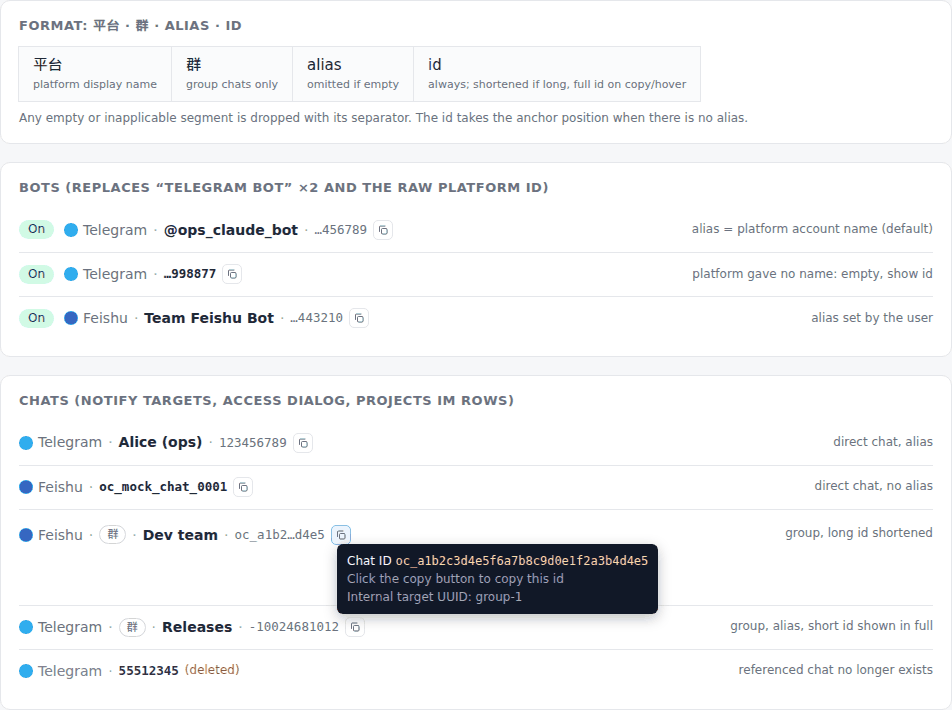
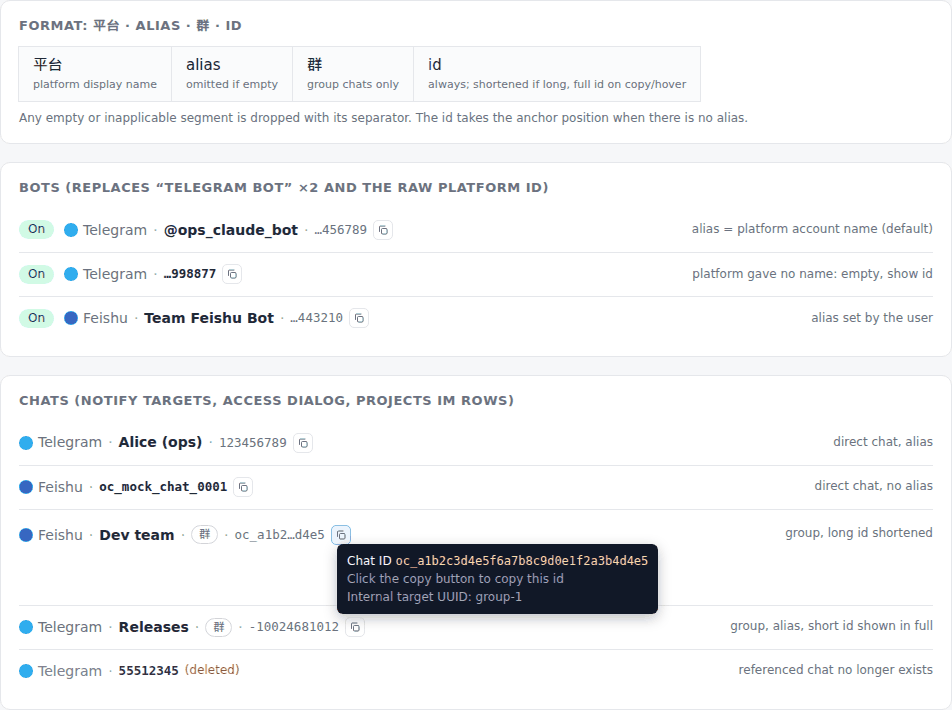
feat(frontend): put the group marker after the alias: platform · alias · group · id
The group chip read oddly between platform and alias; it now follows the name it
qualifies. Component, text helper, tests, mockup, screenshots and design doc updated.

Changed region(s): [[0.1218, 0.031, 0.4265, 0.1239], [0.0914, 0.7437, 0.2437, 0.7746], [0.1218, 0.8676, 0.2437, 0.8986]]

diff --git a/.design/images/bot-im-alias-display/mockup.html b/.design/images/bot-im-alias-display/mockup.html
@@ -1,6 +1,6 @@
 <!doctype html>
 <html lang="en"><head><meta charset="utf-8">
-<title>Bot/IM display mockup: 平台 · 群 · alias · id</title>
+<title>Bot/IM display mockup: 平台 · alias · 群 · id</title>
 <style>
   :root { --text:#1f2937; --muted:#6b7280; --faint:#9ca3af; --line:#e5e7eb; --primary:#2563eb; --chip:#eef2f7; --warn:#b45309; }
   * { box-sizing:border-box; }
@@ -59,11 +59,11 @@
 <!-- ============ SHOT A: format + lists ============ -->
 <div id="shotA">
   <div class="card">
-    <h2>Format: 平台 · 群 · alias · id</h2>
+    <h2>Format: 平台 · alias · 群 · id</h2>
     <div class="legend">
       <div>平台<small>platform display name</small></div>
-      <div>群<small>group chats only</small></div>
       <div>alias<small>omitted if empty</small></div>
+      <div>群<small>group chats only</small></div>
       <div>id<small>always; shortened if long, full id on copy/hover</small></div>
     </div>
     <div class="note">Any empty or inapplicable segment is dropped with its separator. The id takes the anchor position when there is no alias.</div>
@@ -93,7 +93,7 @@
     <div class="row"><span class="ref tg"><span class="plat"><i></i>Telegram</span><span class="sep">·</span><span class="alias">Alice (ops)</span><span class="sep">·</span><span class="id">123456789</span><span class="copy"><svg width="12" height="12" viewBox="0 0 24 24" fill="none" stroke="currentColor" stroke-width="2" stroke-linecap="round" stroke-linejoin="round"><rect x="9" y="9" width="11" height="11" rx="2"/><path d="M5 15V6a2 2 0 0 1 2-2h9"/></svg></span></span><span class="tag">direct chat, alias</span></div>
     <div class="row"><span class="ref fs"><span class="plat"><i></i>Feishu</span><span class="sep">·</span><span class="id anchor">oc_mock_chat_0001</span><span class="copy"><svg width="12" height="12" viewBox="0 0 24 24" fill="none" stroke="currentColor" stroke-width="2" stroke-linecap="round" stroke-linejoin="round"><rect x="9" y="9" width="11" height="11" rx="2"/><path d="M5 15V6a2 2 0 0 1 2-2h9"/></svg></span></span><span class="tag">direct chat, no alias</span></div>
     <div class="row rel" style="min-height:96px;align-items:flex-start">
-      <span class="ref fs" style="margin-top:6px"><span class="plat"><i></i>Feishu</span><span class="sep">·</span><span class="grp">群</span><span class="sep">·</span><span class="alias">Dev team</span><span class="sep">·</span><span class="id">oc_a1b2…d4e5</span><span class="copy" style="background:#eef2ff;border-color:#93a8f5"><svg width="12" height="12" viewBox="0 0 24 24" fill="none" stroke="currentColor" stroke-width="2" stroke-linecap="round" stroke-linejoin="round"><rect x="9" y="9" width="11" height="11" rx="2"/><path d="M5 15V6a2 2 0 0 1 2-2h9"/></svg></span></span>
+      <span class="ref fs" style="margin-top:6px"><span class="plat"><i></i>Feishu</span><span class="sep">·</span><span class="alias">Dev team</span><span class="sep">·</span><span class="grp">群</span><span class="sep">·</span><span class="id">oc_a1b2…d4e5</span><span class="copy" style="background:#eef2ff;border-color:#93a8f5"><svg width="12" height="12" viewBox="0 0 24 24" fill="none" stroke="currentColor" stroke-width="2" stroke-linecap="round" stroke-linejoin="round"><rect x="9" y="9" width="11" height="11" rx="2"/><path d="M5 15V6a2 2 0 0 1 2-2h9"/></svg></span></span>
       <span class="tag" style="margin-top:6px">group, long id shortened</span>
       <div class="tip" style="left:318px;top:34px">
         Chat ID <code>oc_a1b2c3d4e5f6a7b8c9d0e1f2a3b4d4e5</code><br>
@@ -101,7 +101,7 @@
         <span class="dim">Internal target UUID: group-1</span>
       </div>
     </div>
-    <div class="row"><span class="ref tg"><span class="plat"><i></i>Telegram</span><span class="sep">·</span><span class="grp">群</span><span class="sep">·</span><span class="alias">Releases</span><span class="sep">·</span><span class="id">-10024681012</span><span class="copy"><svg width="12" height="12" viewBox="0 0 24 24" fill="none" stroke="currentColor" stroke-width="2" stroke-linecap="round" stroke-linejoin="round"><rect x="9" y="9" width="11" height="11" rx="2"/><path d="M5 15V6a2 2 0 0 1 2-2h9"/></svg></span></span><span class="tag">group, alias, short id shown in full</span></div>
+    <div class="row"><span class="ref tg"><span class="plat"><i></i>Telegram</span><span class="sep">·</span><span class="alias">Releases</span><span class="sep">·</span><span class="grp">群</span><span class="sep">·</span><span class="id">-10024681012</span><span class="copy"><svg width="12" height="12" viewBox="0 0 24 24" fill="none" stroke="currentColor" stroke-width="2" stroke-linecap="round" stroke-linejoin="round"><rect x="9" y="9" width="11" height="11" rx="2"/><path d="M5 15V6a2 2 0 0 1 2-2h9"/></svg></span></span><span class="tag">group, alias, short id shown in full</span></div>
     <div class="row"><span class="ref tg" style="opacity:.9"><span class="plat"><i></i>Telegram</span><span class="sep">·</span><span class="id anchor">55512345</span><span class="del">(deleted)</span></span><span class="tag">referenced chat no longer exists</span></div>
   </div>
 </div>
@@ -128,7 +128,7 @@
         </div>
         <div class="opt sel"><span class="ref tg"><span class="plat"><i></i>Telegram</span><span class="sep">·</span><span class="alias">Alice (ops)</span><span class="sep">·</span><span class="id">123456789</span></span><span class="tag">paired</span></div>
         <div class="opt"><span class="ref tg"><span class="plat"><i></i>Telegram</span><span class="sep">·</span><span class="alias">Bob (on-call)</span><span class="sep">·</span><span class="id">987654321</span></span><span class="tag">paired</span></div>
-        <div class="opt"><span class="ref tg"><span class="plat"><i></i>Telegram</span><span class="sep">·</span><span class="grp">群</span><span class="sep">·</span><span class="alias">Releases</span><span class="sep">·</span><span class="id">-10024681012</span></span></div>
+        <div class="opt"><span class="ref tg"><span class="plat"><i></i>Telegram</span><span class="sep">·</span><span class="alias">Releases</span><span class="sep">·</span><span class="grp">群</span><span class="sep">·</span><span class="id">-10024681012</span></span></div>
       </div>
       <div class="note">Today: name in the input, raw <code>telegram:-10024681012</code> in the list, alias nowhere.</div>
     </div>
@@ -150,7 +150,7 @@
     </div>
     <div class="note" style="margin-top:14px">Bound-chat tag for a group chat on another project:</div>
     <div class="bar" style="margin-top:8px">
-      <span class="chip"><span class="ref fs"><span class="plat"><i></i>Feishu</span><span class="sep">·</span><span class="grp">群</span><span class="sep">·</span><span class="alias">Dev team</span><span class="sep">·</span><span class="id">oc_a1b2…d4e5</span></span><span class="x">×</span></span>
+      <span class="chip"><span class="ref fs"><span class="plat"><i></i>Feishu</span><span class="sep">·</span><span class="alias">Dev team</span><span class="sep">·</span><span class="grp">群</span><span class="sep">·</span><span class="id">oc_a1b2…d4e5</span></span><span class="x">×</span></span>
       <span class="chip"><span class="ref fs"><span class="plat"><i></i>Feishu</span><span class="sep">·</span><span class="grp">群</span><span class="sep">·</span><span class="id anchor">oc_9f8e…77aa</span></span><span class="x">×</span></span>
       <span class="note" style="margin:0">no alias: the id takes the anchor</span>
     </div>
@@ -159,8 +159,8 @@
     <h2>Under a bot header the platform collapses to its icon (D6, proposed)</h2>
     <div style="font-weight:600;margin-bottom:6px" class="ref tg"><span class="plat"><i></i></span>@ops_claude_bot <span class="pill">Telegram · Connected</span></div>
     <div class="row" style="border-top:1px solid var(--line)"><span class="ref tg"><span class="plat"><i></i></span><span class="alias">Alice (ops)</span><span class="sep">·</span><span class="id">123456789</span><span class="copy"><svg width="12" height="12" viewBox="0 0 24 24" fill="none" stroke="currentColor" stroke-width="2" stroke-linecap="round" stroke-linejoin="round"><rect x="9" y="9" width="11" height="11" rx="2"/><path d="M5 15V6a2 2 0 0 1 2-2h9"/></svg></span></span><span class="tag">Payments API latency</span></div>
-    <div class="row"><span class="ref tg"><span class="plat"><i></i></span><span class="grp">群</span><span class="sep">·</span><span class="alias">Releases</span><span class="sep">·</span><span class="id">-10024681012</span><span class="copy"><svg width="12" height="12" viewBox="0 0 24 24" fill="none" stroke="currentColor" stroke-width="2" stroke-linecap="round" stroke-linejoin="round"><rect x="9" y="9" width="11" height="11" rx="2"/><path d="M5 15V6a2 2 0 0 1 2-2h9"/></svg></span></span><span class="tag">Docs refresh</span></div>
-    <div class="note">On group rows the 群 chip becomes the first readable token.</div>
+    <div class="row"><span class="ref tg"><span class="plat"><i></i></span><span class="alias">Releases</span><span class="sep">·</span><span class="grp">群</span><span class="sep">·</span><span class="id">-10024681012</span><span class="copy"><svg width="12" height="12" viewBox="0 0 24 24" fill="none" stroke="currentColor" stroke-width="2" stroke-linecap="round" stroke-linejoin="round"><rect x="9" y="9" width="11" height="11" rx="2"/><path d="M5 15V6a2 2 0 0 1 2-2h9"/></svg></span></span><span class="tag">Docs refresh</span></div>
+    <div class="note">Under a bot header the platform is a logo; a group row reads alias, then the 群 chip, then the id.</div>
   </div>
 </div>
 </body></html>

diff --git a/frontend/packages/ui/src/components/EntityLabel.tsx b/frontend/packages/ui/src/components/EntityLabel.tsx
@@ -40,7 +40,7 @@ const Sep = () => (
 );
 
 /**
- * `平台 · 群 · alias · id`. Presentational only: the caller resolves the
+ * `平台 · alias · 群 · id`. Presentational only: the caller resolves the
  * segments. Segments that are empty or do not apply are dropped with their
  * separator; the id takes the anchor position when there is no alias, so a
  * row never looks empty. The id may be shortened but the full id is always
@@ -106,9 +106,17 @@ export const EntityLabel = ({
                     {platformAs === 'text' || !platformIcon ? platform : null}
                 </Box>
             </Tooltip>
-            {group && (
+            {aliasText !== '' && (
                 <>
                     {!iconOnly && <Sep />}
+                    <Box component="span" sx={{ fontWeight: 600, color: 'text.primary', minWidth: 0, overflow: 'hidden', textOverflow: 'ellipsis' }}>
+                        {aliasText}
+                    </Box>
+                </>
+            )}
+            {group && (
+                <>
+                    {!(iconOnly && aliasText === '') && <Sep />}
                     <Box
                         component="span"
                         sx={{
@@ -123,14 +131,6 @@ export const EntityLabel = ({
                         }}
                     >
                         {groupLabel}
-                    </Box>
-                </>
-            )}
-            {aliasText !== '' && (
-                <>
-                    {!(iconOnly && !group) && <Sep />}
-                    <Box component="span" sx={{ fontWeight: 600, color: 'text.primary', minWidth: 0, overflow: 'hidden', textOverflow: 'ellipsis' }}>
-                        {aliasText}
                     </Box>
                 </>
             )}

diff --git a/frontend/packages/ui/src/components/EntityLabel.test.tsx b/frontend/packages/ui/src/components/EntityLabel.test.tsx
@@ -10,9 +10,9 @@ describe('EntityLabel', () => {
         expect(el.getAttribute('aria-label')).toBe('Telegram · Alice · 123456789');
     });
 
-    it('puts the group segment second', () => {
+    it('puts the group segment after the alias', () => {
         render(<EntityLabel platform="Feishu" group groupLabel="群" alias="Dev team" id="oc_1" />);
-        expect(screen.getByTestId('entity-label').textContent).toBe('Feishu·群·Dev team·oc_1');
+        expect(screen.getByTestId('entity-label').textContent).toBe('Feishu·Dev team·群·oc_1');
     });
 
     it('drops the alias segment and its separator when there is none, and never renders blank', () => {
@@ -51,8 +51,8 @@ describe('EntityLabel', () => {
     it('compact leaves the id out when there is an alias but keeps the full label reachable', () => {
         render(<EntityLabel platform="Feishu" group groupLabel="群" alias="Dev team" id="oc_a1b2c3d4e5f6a7b8c9d0e1f2a3b4d4e5" compact />);
         const el = screen.getByTestId('entity-label');
-        expect(el.textContent).toBe('Feishu·群·Dev team');
-        expect(el.getAttribute('title')).toBe('Feishu · 群 · Dev team · oc_a1b2c3d4e5f6a7b8c9d0e1f2a3b4d4e5');
+        expect(el.textContent).toBe('Feishu·Dev team·群');
+        expect(el.getAttribute('title')).toBe('Feishu · Dev team · 群 · oc_a1b2c3d4e5f6a7b8c9d0e1f2a3b4d4e5');
         expect(el.getAttribute('aria-label')).toBe(el.getAttribute('title'));
     });
 

diff --git a/frontend/packages/ui/src/utils/entityLabel.test.ts b/frontend/packages/ui/src/utils/entityLabel.test.ts
@@ -33,10 +33,10 @@ describe('bareId', () => {
 });
 
 describe('entityText', () => {
-    it('renders 平台 · 群 · alias · id and omits empty or inapplicable segments', () => {
+    it('renders 平台 · alias · 群 · id and omits empty or inapplicable segments', () => {
         expect(entityText({ platform: 'Telegram', alias: 'Alice', id: '123456789' })).toBe('Telegram · Alice · 123456789');
         expect(entityText({ platform: 'Telegram', id: '123456789' })).toBe('Telegram · 123456789');
-        expect(entityText({ platform: 'Feishu', group: true, alias: 'Dev team', id: 'oc_a1b2c3d4e5f6a7b8c9d0e1f2a3b4d4e5' }, { groupLabel: '群' })).toBe('Feishu · 群 · Dev team · oc_a1b…d4e5');
+        expect(entityText({ platform: 'Feishu', group: true, alias: 'Dev team', id: 'oc_a1b2c3d4e5f6a7b8c9d0e1f2a3b4d4e5' }, { groupLabel: '群' })).toBe('Feishu · Dev team · 群 · oc_a1b…d4e5');
         expect(entityText({ platform: 'Feishu', group: true, id: 'oc_1' })).toBe('Feishu · Group · oc_1');
         expect(entityText({ platform: 'Telegram', alias: '  ', id: '42' })).toBe('Telegram · 42');
     });

diff --git a/frontend/src/pages/projects/imHost.test.ts b/frontend/src/pages/projects/imHost.test.ts
@@ -26,13 +26,13 @@ const bot = { uuid: 'bot', name: 'Bot', platform: 'telegram', online: true };
 describe('Projects IM host', () => {
     beforeEach(() => { m.groupsFail = false; });
 
-    it('titles chats as 平台 · 群 · alias · id, with the group name as default alias and the id when unnamed', async () => {
+    it('titles chats as 平台 · alias · 群 · id, with the group name as default alias and the id when unnamed', async () => {
         const chats = await imHost.listChats(bot);
         expect(chats.map((chat) => chat.title)).toEqual([
             'Telegram · Alice · 123',
             'Telegram · 456',
-            'Telegram · Group · Team · 789',
-            'Telegram · Group · Platform name · 987',
+            'Telegram · Team · Group · 789',
+            'Telegram · Platform name · Group · 987',
         ]);
         expect(chats.map((chat) => chat.alias)).toEqual(['Alice', undefined, 'Team', 'Platform name']);
     });

diff --git a/frontend/packages/projects/src/components/im/ImChatLabel.tsx b/frontend/packages/projects/src/components/im/ImChatLabel.tsx
@@ -16,7 +16,7 @@ interface ChatRefProps {
     botUuid?: string;
 }
 
-/** Segments of `平台 · 群 · alias · id` for one chat, resolved through the host when it knows the chat. */
+/** Segments of `平台 · alias · 群 · id` for one chat, resolved through the host when it knows the chat. */
 const noSubscribe = () => () => {};
 const noVersion = () => 0;
 
@@ -40,7 +40,7 @@ function useChatSegments() {
     };
 }
 
-/** `平台 · 群 · alias · id` as plain text, for toasts and aria-labels. */
+/** `平台 · alias · 群 · id` as plain text, for toasts and aria-labels. */
 export function useImChatText(): (chat: ChatRefProps) => string {
     const { t } = useTranslation('projects');
     const segments = useChatSegments();

diff --git a/frontend/packages/ui/src/utils/entityLabel.ts b/frontend/packages/ui/src/utils/entityLabel.ts
@@ -1,5 +1,5 @@
 // Display convention for platform-scoped bot / IM entities:
-//   平台 · 群 · alias · id
+//   平台 · alias · 群 · id
 // Any empty or inapplicable segment is dropped together with its separator.
 // See .design/bot-im-alias-display.md §3.
 
@@ -65,8 +65,8 @@ export function entityText(parts: EntityParts, options: EntityTextOptions = {}):
     const id = shorten ? shortId(kind, parts.id).text : parts.id;
     const segments = [
         parts.platform,
-        parts.group ? groupLabel : '',
         parts.alias?.trim() ?? '',
+        parts.group ? groupLabel : '',
         id,
     ];
     return segments.filter((s) => s !== '').join(' · ');

diff --git a/frontend/src/components/notify/BotNotifyGroup.tsx b/frontend/src/components/notify/BotNotifyGroup.tsx
@@ -114,7 +114,7 @@ const ProbeResultLine: React.FC<{result: ChatProbeResult; onDismiss: () => void}
 const BotNotifyGroup: React.FC<BotNotifyGroupProps> = ({bot, onToggle, isToggling}) => {
     const {t} = useTranslation();
     const entities = useEntityLabels();
-    // A Notify target in the shared `平台 · 群 · alias · id` convention.
+    // A Notify target in the shared `平台 · alias · 群 · id` convention.
     const targetProps = useCallback((target: NotifyTarget) => (
         target.kind === 'group'
             ? entities.group({platform: target.platform ?? '', external_group_id: target.external_id, alias: target.alias})

diff --git a/frontend/src/pages/projects/imHost.tsx b/frontend/src/pages/projects/imHost.tsx
@@ -19,7 +19,7 @@ const knownBots = new Map<string, BotSettings>();
 const platformLabel = (platform: string) => platformDisplayName(platform, i18n.t.bind(i18n));
 
 // What the host knows about each chat it has listed, so a binding or a message
-// that only holds a chat id can still be shown as `平台 · 群 · alias · id`.
+// that only holds a chat id can still be shown as `平台 · alias · 群 · id`.
 // Filled by every chat listing and, lazily, on the first lookup.
 const chatIndex = new Map<string, ImChatInfo>();
 const chatKeyOf = (platform: string, chatId: string) => `${platform}\u0000${chatId}`;

diff --git a/frontend/src/components/entity/useEntityLabels.tsx b/frontend/src/components/entity/useEntityLabels.tsx
@@ -4,7 +4,7 @@ import { bareId, entityText, type EntityKind, type EntityLabelProps } from '@tin
 import { PLATFORM_BRAND_ICONS, platformDisplayName } from '@/constants/platformGuides';
 
 // Adapters from the bot / IM API shapes to the segments of the shared display
-// convention `平台 · 群 · alias · id` (.design/bot-im-alias-display.md §3).
+// convention `平台 · alias · 群 · id` (.design/bot-im-alias-display.md §3).
 
 export interface BotRef { uuid?: string; name?: string; platform?: string }
 export interface ChatRef { platform: string; external_chat_id: string; alias?: string }

diff --git a/frontend/packages/projects/src/host/ProjectsHost.tsx b/frontend/packages/projects/src/host/ProjectsHost.tsx
@@ -73,7 +73,7 @@ export interface ImChat {
     chatId: string;
     /** The chat's alias (the user's, or the platform's name as default); empty when it has none. */
     alias?: string;
-    /** `平台 · 群 · alias · id` as plain text, for toasts and labels. */
+    /** `平台 · alias · 群 · id` as plain text, for toasts and labels. */
     title: string;
     kind: 'direct' | 'group';
     /** Whether the bot may use the chat: `ok`, `blocked` in access control, or a private chat not yet `unpaired`. */

diff --git a/frontend/src/components/nodes/ChatNode.tsx b/frontend/src/components/nodes/ChatNode.tsx
@@ -23,7 +23,7 @@ export interface ChatNodeProps {
     kind?: 'direct_chat' | 'group';
     /** The chat's alias: primary text when present, the id then drops to a muted second line. */
     alias?: string;
-    /** `平台 · 群 · alias · id` as plain text, shown first in the tooltip. */
+    /** `平台 · alias · 群 · id` as plain text, shown first in the tooltip. */
     labelText?: string;
     targetID?: string;
     isPaired?: boolean;
